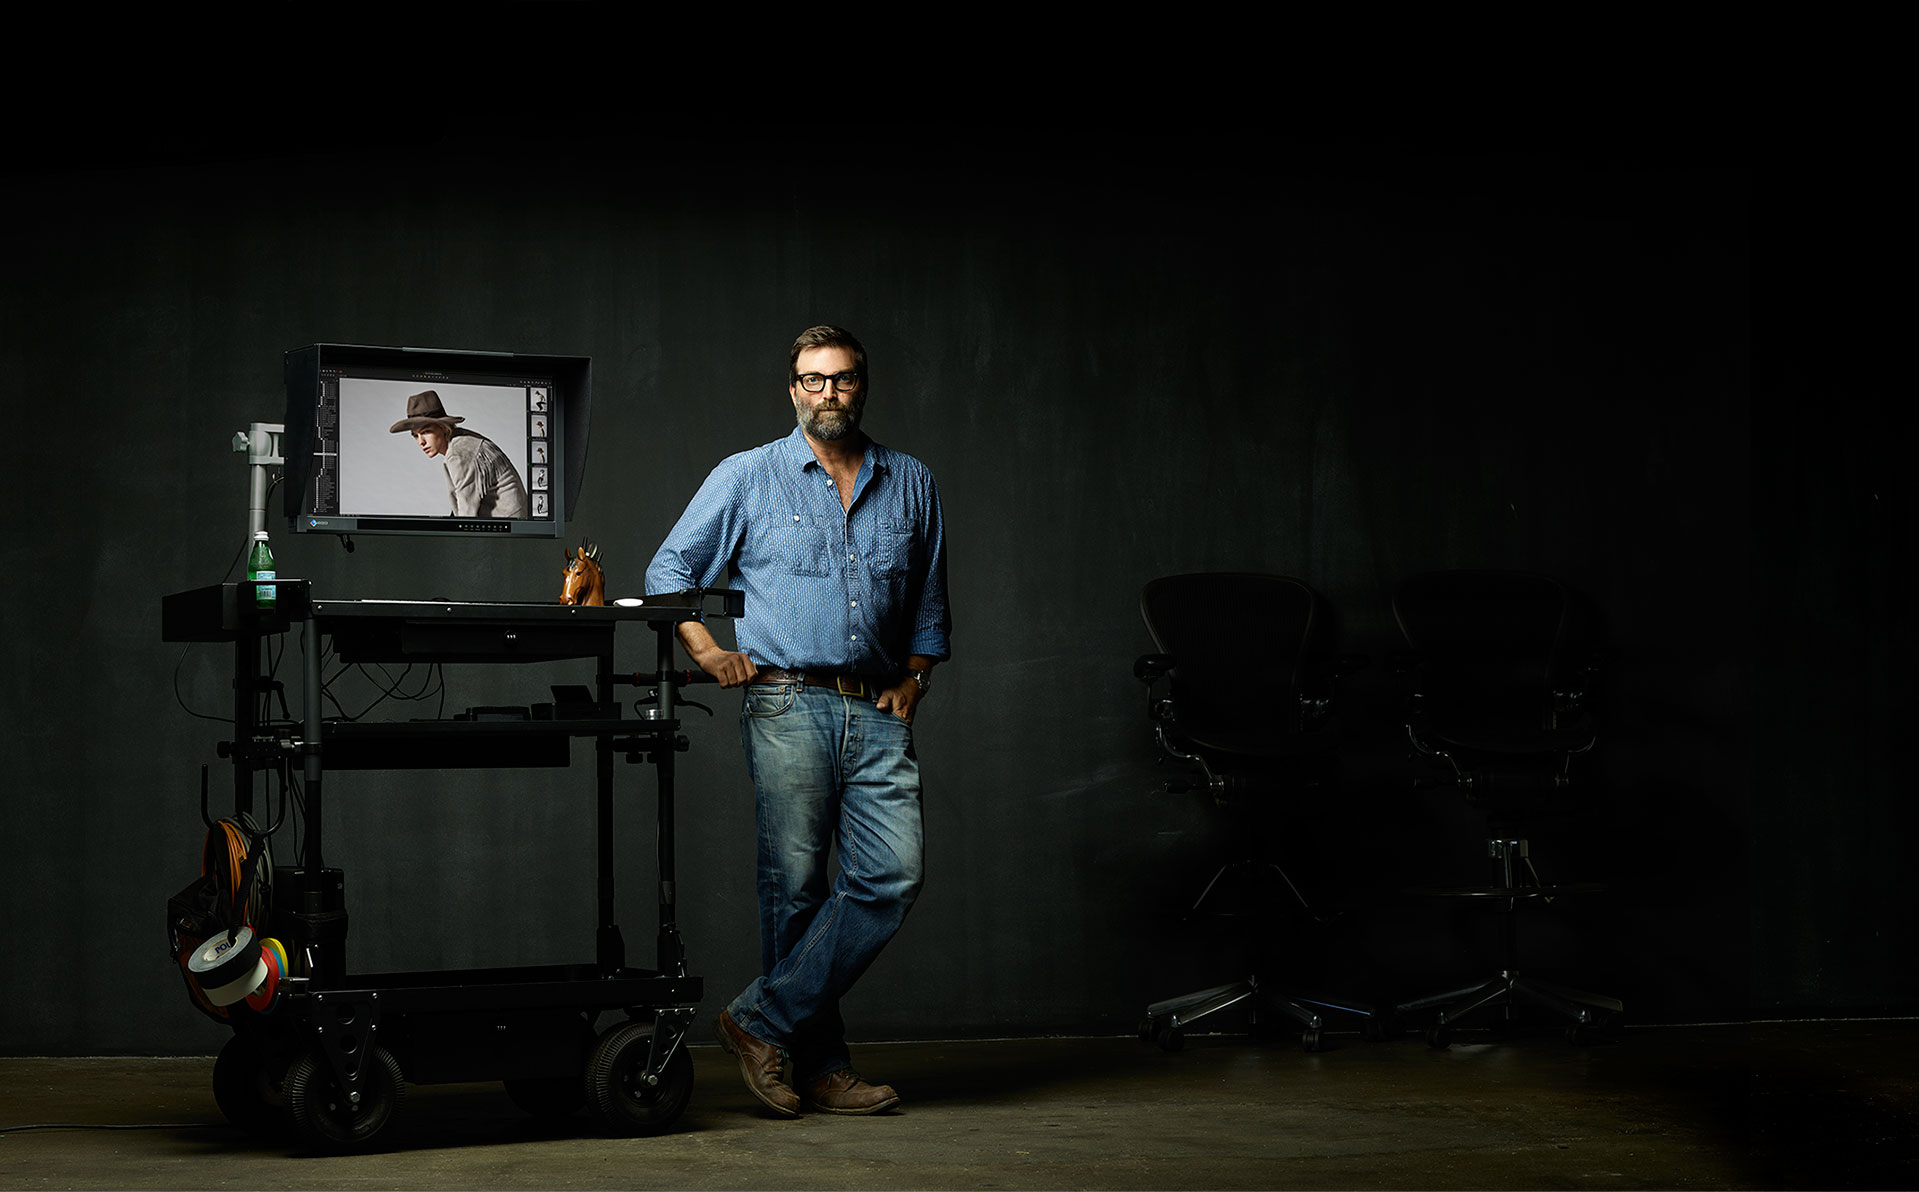
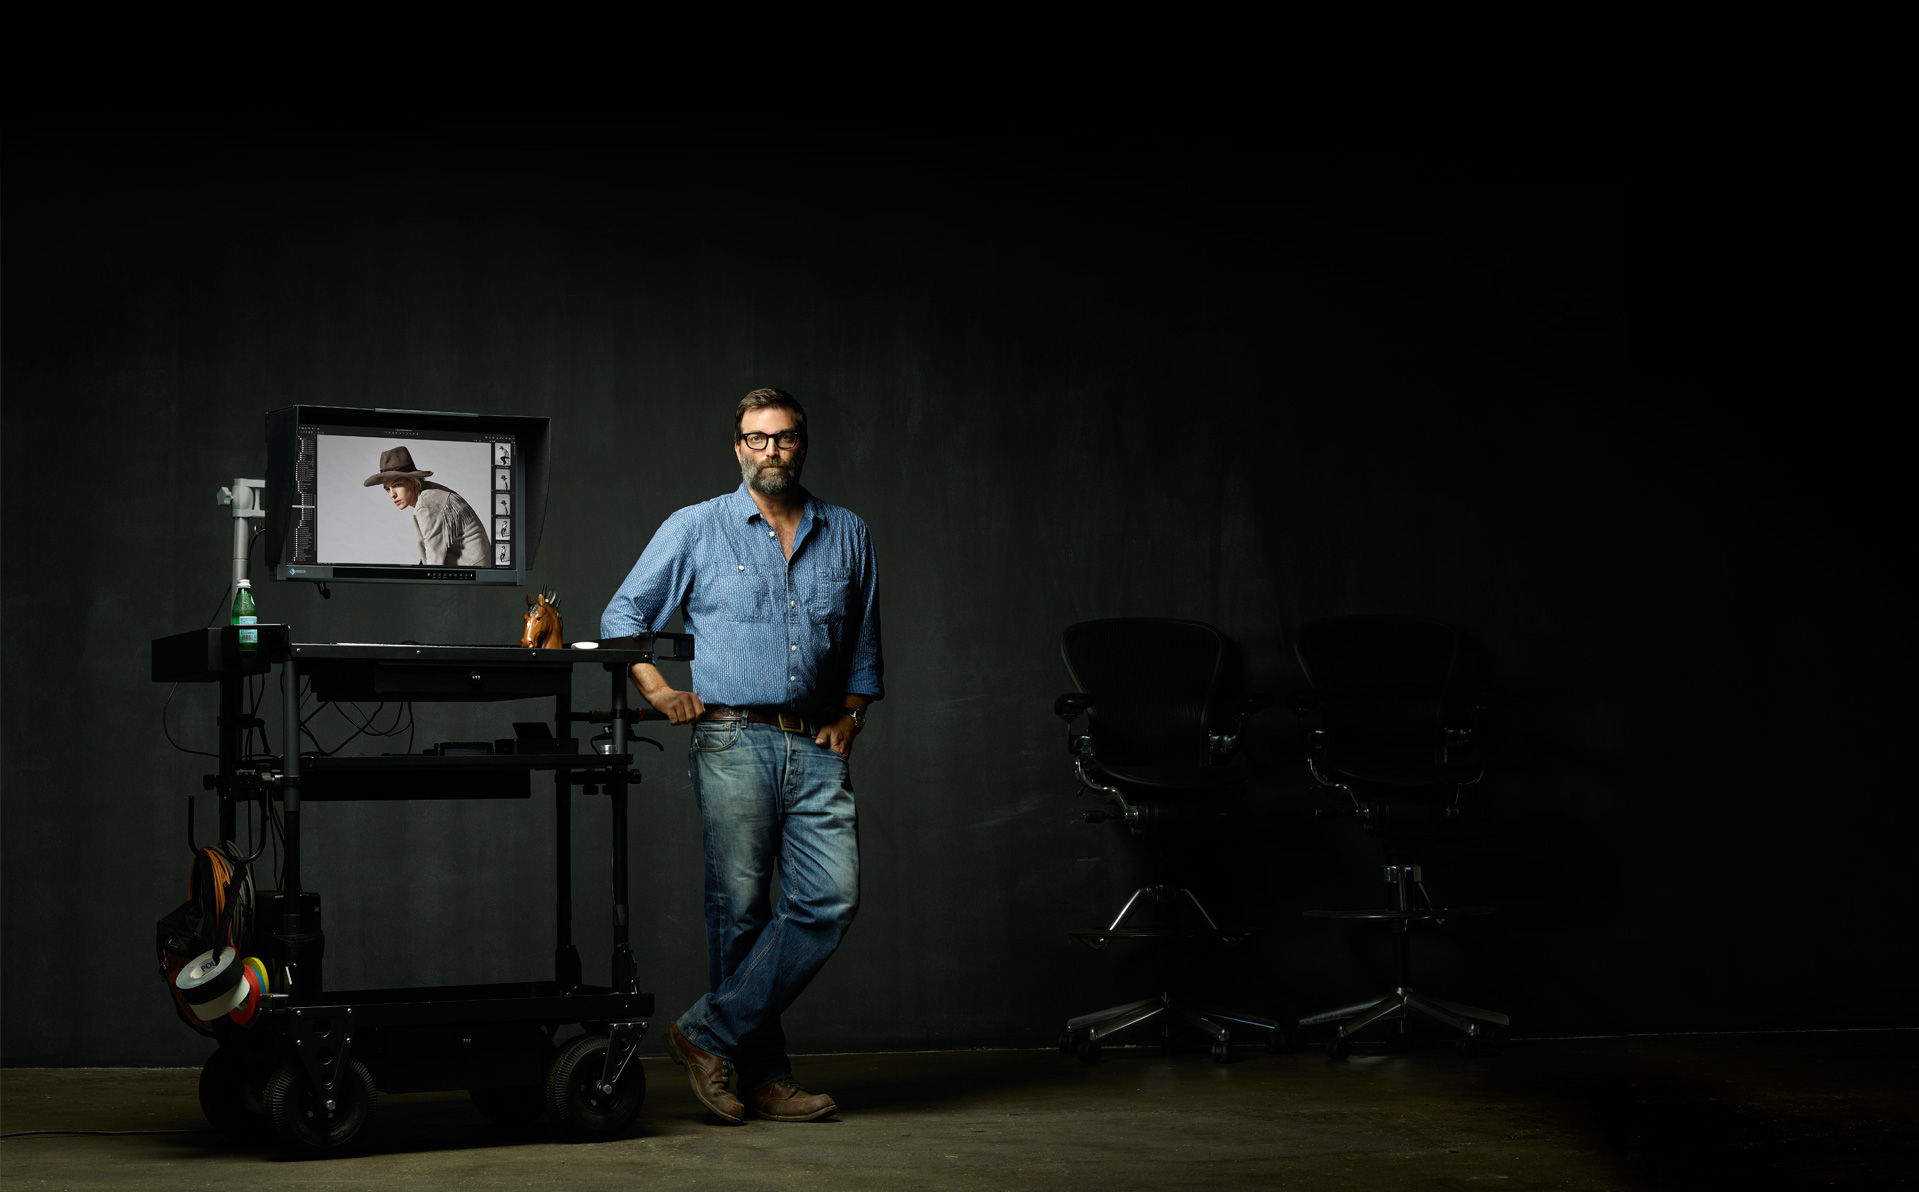
making tweaks to main studio background image and adding retina display version

diff --git a/library/css/style.css b/library/css/style.css
@@ -2696,6 +2696,7 @@ you can add resource intensive styles.
   /* end .footer-links */
   body.home #main > section {
     height: 100%;
+    min-height: 1000px;
   }
   body.home #main > section .bg-shell {
     height: 560px;
@@ -2803,7 +2804,7 @@ you can add resource intensive styles.
   }
   body.home #main > section.studio .section-content {
     right: 5%;
-    top: 22%;
+    top: 27%;
   }
   body.home #main > section.location .bg-shell {
     background-position: 69% 0;
@@ -2940,6 +2941,7 @@ you can add resource intensive styles.
   }
   body.home #main > section {
     font-size: 15px;
+    min-height: 750px;
   }
   body.home #main > section h2 {
     font-size: 36px;
@@ -2972,7 +2974,7 @@ you can add resource intensive styles.
   }
   body.home #main > section.studio .section-content {
     right: 9%;
-    top: 22%;
+    top: 28%;
   }
   body.home #main > section.location .bg-shell {
     background-position: 50% 50%;
@@ -3143,6 +3145,7 @@ This is for the larger monitors and possibly full screen viewers.
     letter-spacing: 10px;
   }
   body.home #main > section {
+    min-height: 940px;
     font-size: 19px;
   }
   body.home #main > section h2 {
@@ -3262,6 +3265,15 @@ This is for the larger monitors and possibly full screen viewers.
   on larger screens.
   
   ******************************************************************/
+  body.home #main {
+    background: orange;
+  }
+  body.home #main > section.studio .bg-shell {
+    background-image: url(../images/bg-images/bg-studio-package-5120.jpg) !important;
+  }
+  body.home #main > section.studio .section-content {
+    top: 33%;
+  }
 }
 /*********************
 RETINA (2x RESOLUTION DEVICES)

diff --git a/library/css/ie.css b/library/css/ie.css
@@ -403,6 +403,7 @@ mobile. Make sure to double check these!
 /* end .footer-links */
 body.home #main > section {
   height: 100%;
+  min-height: 1000px;
 }
 body.home #main > section .bg-shell {
   height: 560px;
@@ -498,6 +499,7 @@ body.home #logo .sub, body.home #main > section.hide-sitename h2 .sub {
 }
 body.home #main > section {
   font-size: 15px;
+  min-height: 750px;
 }
 body.home #main > section h2 {
   font-size: 36px;
@@ -530,7 +532,7 @@ body.home #main > section.studio h2 {
 }
 body.home #main > section.studio .section-content {
   right: 9%;
-  top: 22%;
+  top: 28%;
 }
 body.home #main > section.location .bg-shell {
   background-position: 50% 50%;

diff --git a/library/scss/breakpoints/_1030up.scss b/library/scss/breakpoints/_1030up.scss
@@ -50,6 +50,7 @@ body.home {
 	#main {
 		& > section {
 			font-size:15px;
+			min-height:750px;
 			h2 {
 				font-size:36px;
 				padding-bottom:30px;
@@ -82,7 +83,7 @@ body.home {
 				}
 				.section-content {
 					right:9%;
-					top:22%;
+					top:28%;
 				}
 			}
 			&.location {

diff --git a/library/scss/breakpoints/_1640upRetina.scss b/library/scss/breakpoints/_1640upRetina.scss
@@ -11,9 +11,14 @@ on larger screens.
 
 body.home {
 	#main {
+		background:orange;
 		& > section {
 			&.studio {
 				.bg-shell {
+					background-image:url(../images/bg-images/bg-studio-package-5120.jpg) !important;
+				}
+				.section-content {
+					top:33%;
 				}
 			}
 		}

diff --git a/library/scss/breakpoints/_768up.scss b/library/scss/breakpoints/_768up.scss
@@ -293,6 +293,7 @@ body.home {
 	#main {
 		& > section {
 			height:100%;
+			min-height:1000px;
 			.bg-shell {
 				height:560px;
 			}

diff --git a/library/scss/breakpoints/_1024up.scss b/library/scss/breakpoints/_1024up.scss
@@ -58,7 +58,7 @@ body.home {
 				}
 				.section-content {
 					right:5%;
-					top:22%;
+					top:27%;
 				}
 			}
 			&.location {

diff --git a/library/scss/breakpoints/_1440up.scss b/library/scss/breakpoints/_1440up.scss
@@ -47,6 +47,7 @@ body.home {
 	}
 	#main {
 		& > section {
+			min-height:940px;
 			font-size:19px;
 			h2 {
 				font-size:48px;
